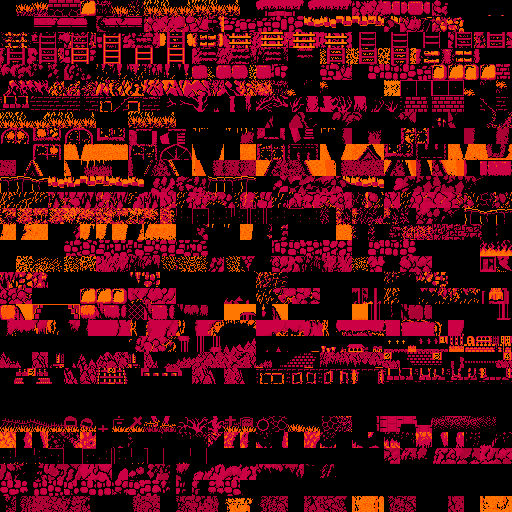
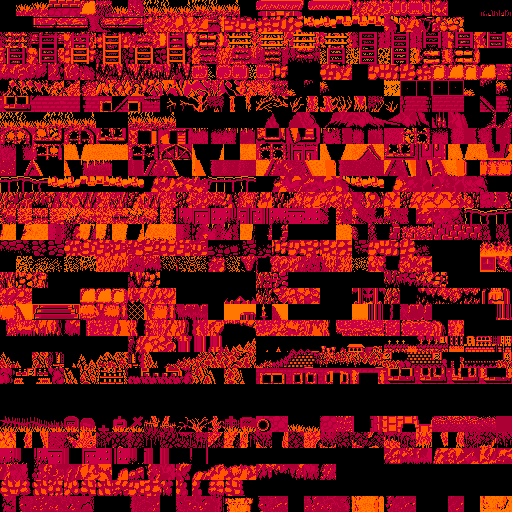
a few fixes

diff --git a/assets/amiga/convert_graphics.py b/assets/amiga/convert_graphics.py
@@ -210,7 +210,7 @@ read_used_tiles("used_sprites",sprite_cluts,SPRITE_NB_TILES,SPRITE_NB_CLUTS)
 # some tiles are hard to display... We know they are there, we force them
 # instead of trying to trigger them by playing to death :)
 
-alphanum_tile_codes = list(range(0,10)) + list(range(ord('A'),ord('Z'))) + list(range(ord('a'),ord('z')))
+alphanum_tile_codes = list(range(0,10)) + list(range(ord('A'),ord('Z')+1)) + list(range(ord('a'),ord('z')+1))+ list(range(ord('0'),ord('9')+1))
 used_cluts = set()
 for atc in alphanum_tile_codes:
     cluts = fg_tile_cluts.get(atc)

diff --git a/tools/post_process.py b/tools/post_process.py
@@ -446,6 +446,9 @@ for i,line in enumerate(lines):
         line = "\ttst.b\tinvincible_flag\n\tjne\tl_f150\n"+line
     elif address == 0x77A7:
         line = "\ttst.b\tinfinite_lives_flag\n\tjne\tl_77bb\n"+line
+    elif address == 0x9bae:
+        line = "\ttst.b\tinfinite_lives_flag\n\tjne\tl_9bb6\n"+line
+
     elif address in {0x661D,0x6697,0x671c,0x6716}:
         # no need to update palette hardware registers, it takes time for nothing
         line = change_instruction("rts",lines,i)

diff --git a/assets/amiga/merge_used.py b/assets/amiga/merge_used.py
@@ -42,6 +42,6 @@ def merge(used_name,nb_items,nb_cluts):
     with open(merged_path_file / used_name,"wb") as f:
         f.write(contents)
 
-#merge("fg_used_tiles",0x400,16)
-#merge("level7/bg_used_tiles",0x400,8)
-merge("used_sprites",0x400,4)
+merge("fg_used_tiles",0x400,16)
+#merge("level2/bg_used_tiles",0x400,8)
+#merge("used_sprites",0x400,4)

diff --git a/README.md b/README.md
@@ -10,6 +10,7 @@ Credits:
 - IM76: music
 - PascalDe73: icons
 - Capcom: original game
+- English Amiga Board forum members: support and suggestions
 
 Instructions:
 
@@ -22,6 +23,7 @@ continue: 1P start+fire
 
 Cheat keys:
 
-F1: 
-F3: 
-F4: 
+F1: toggle invincibility
+F2: level skip
+F3: switch weapon (not visible in the HUD at once)
+F4: add to score
